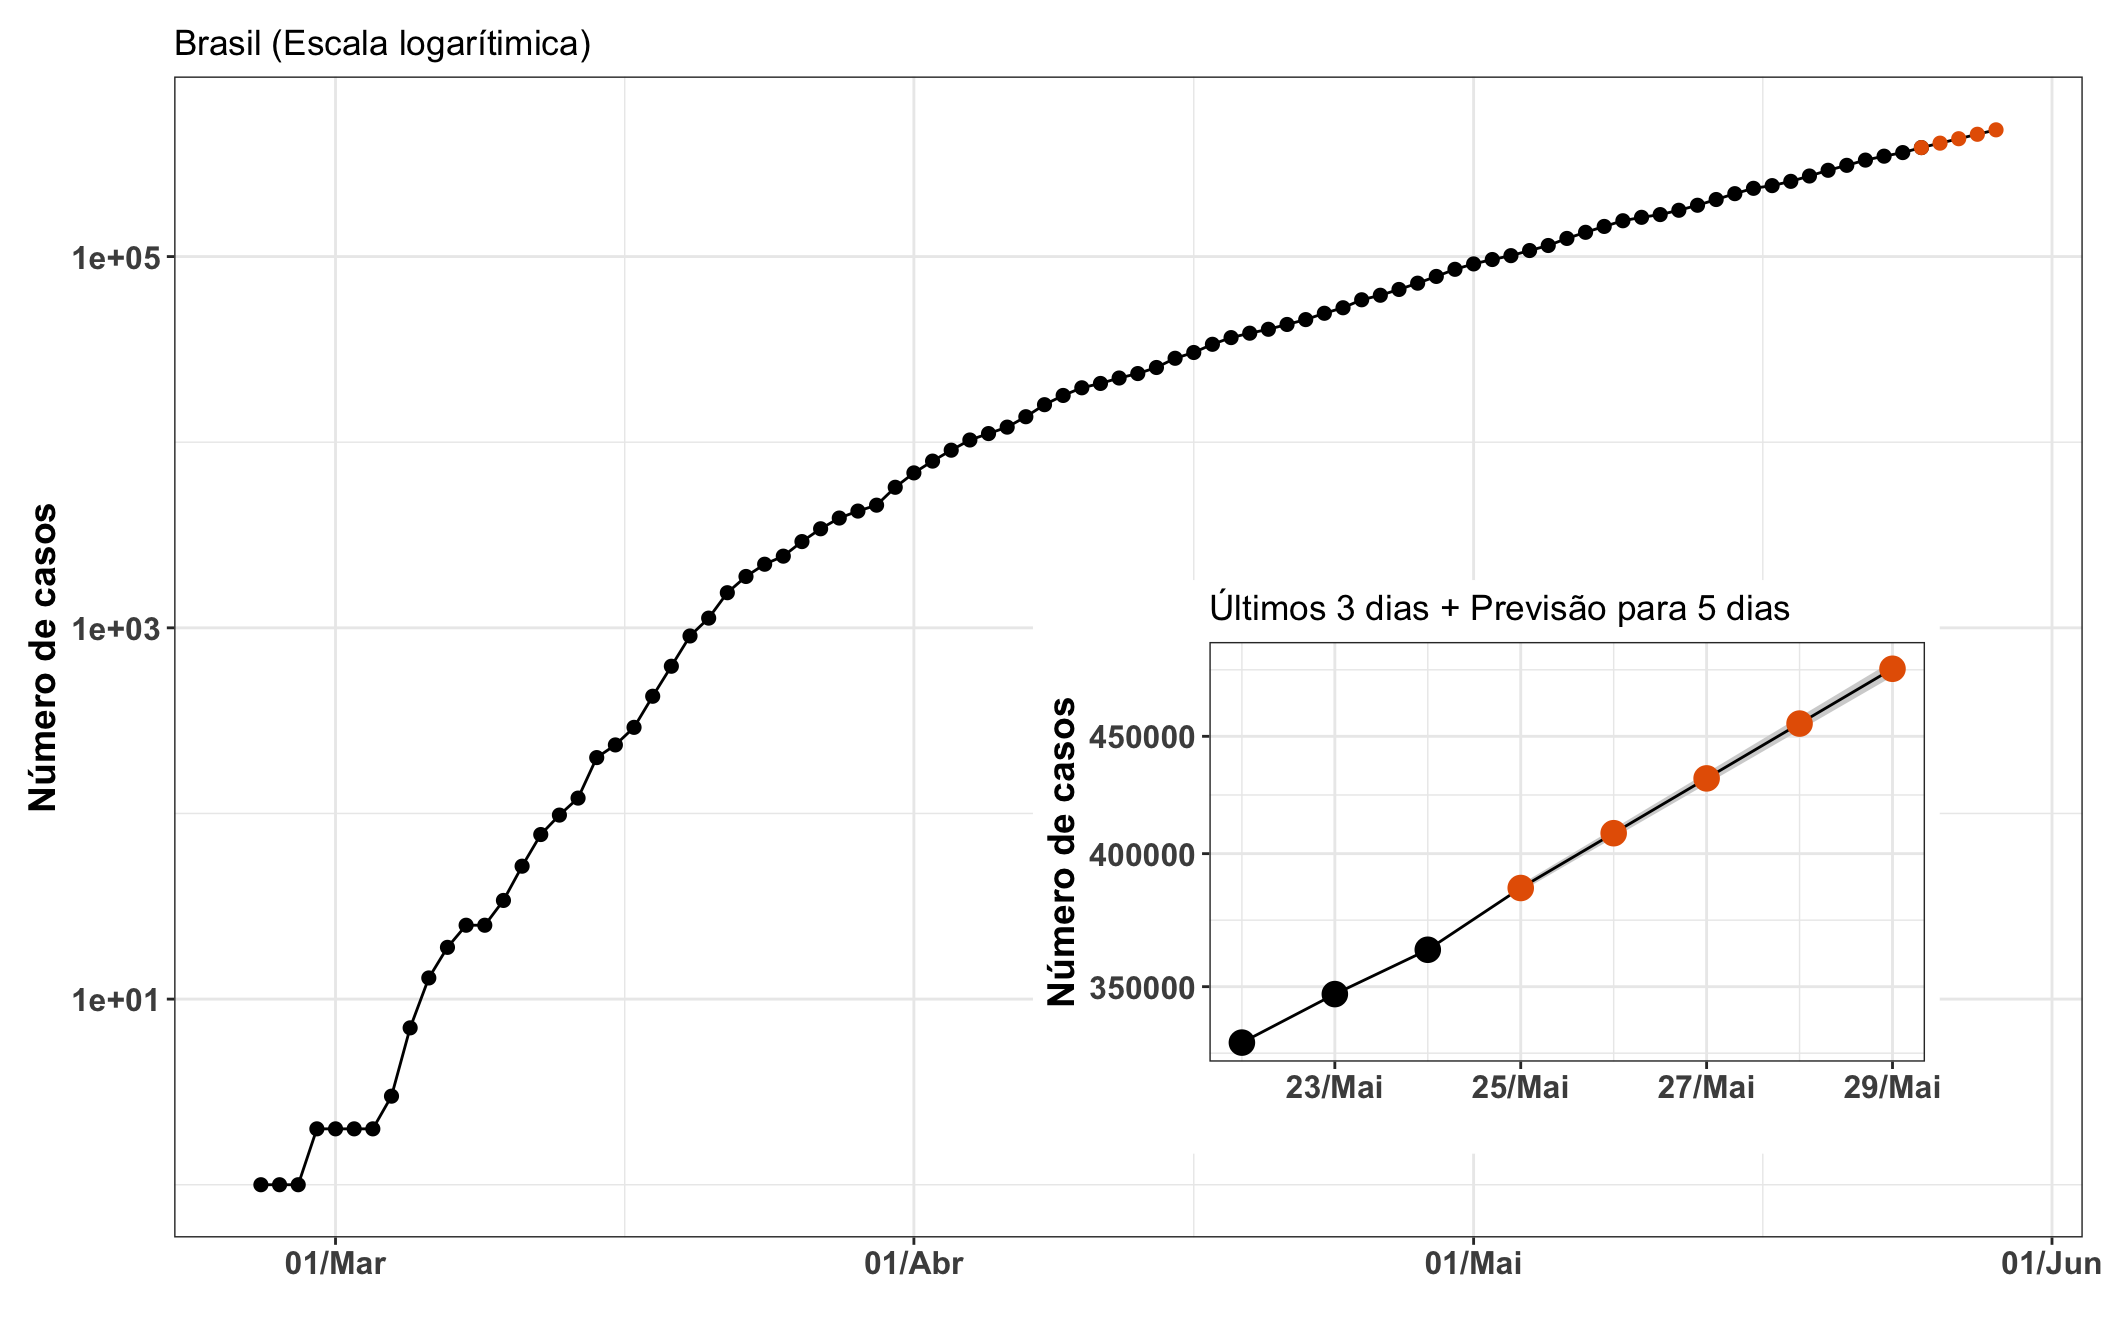
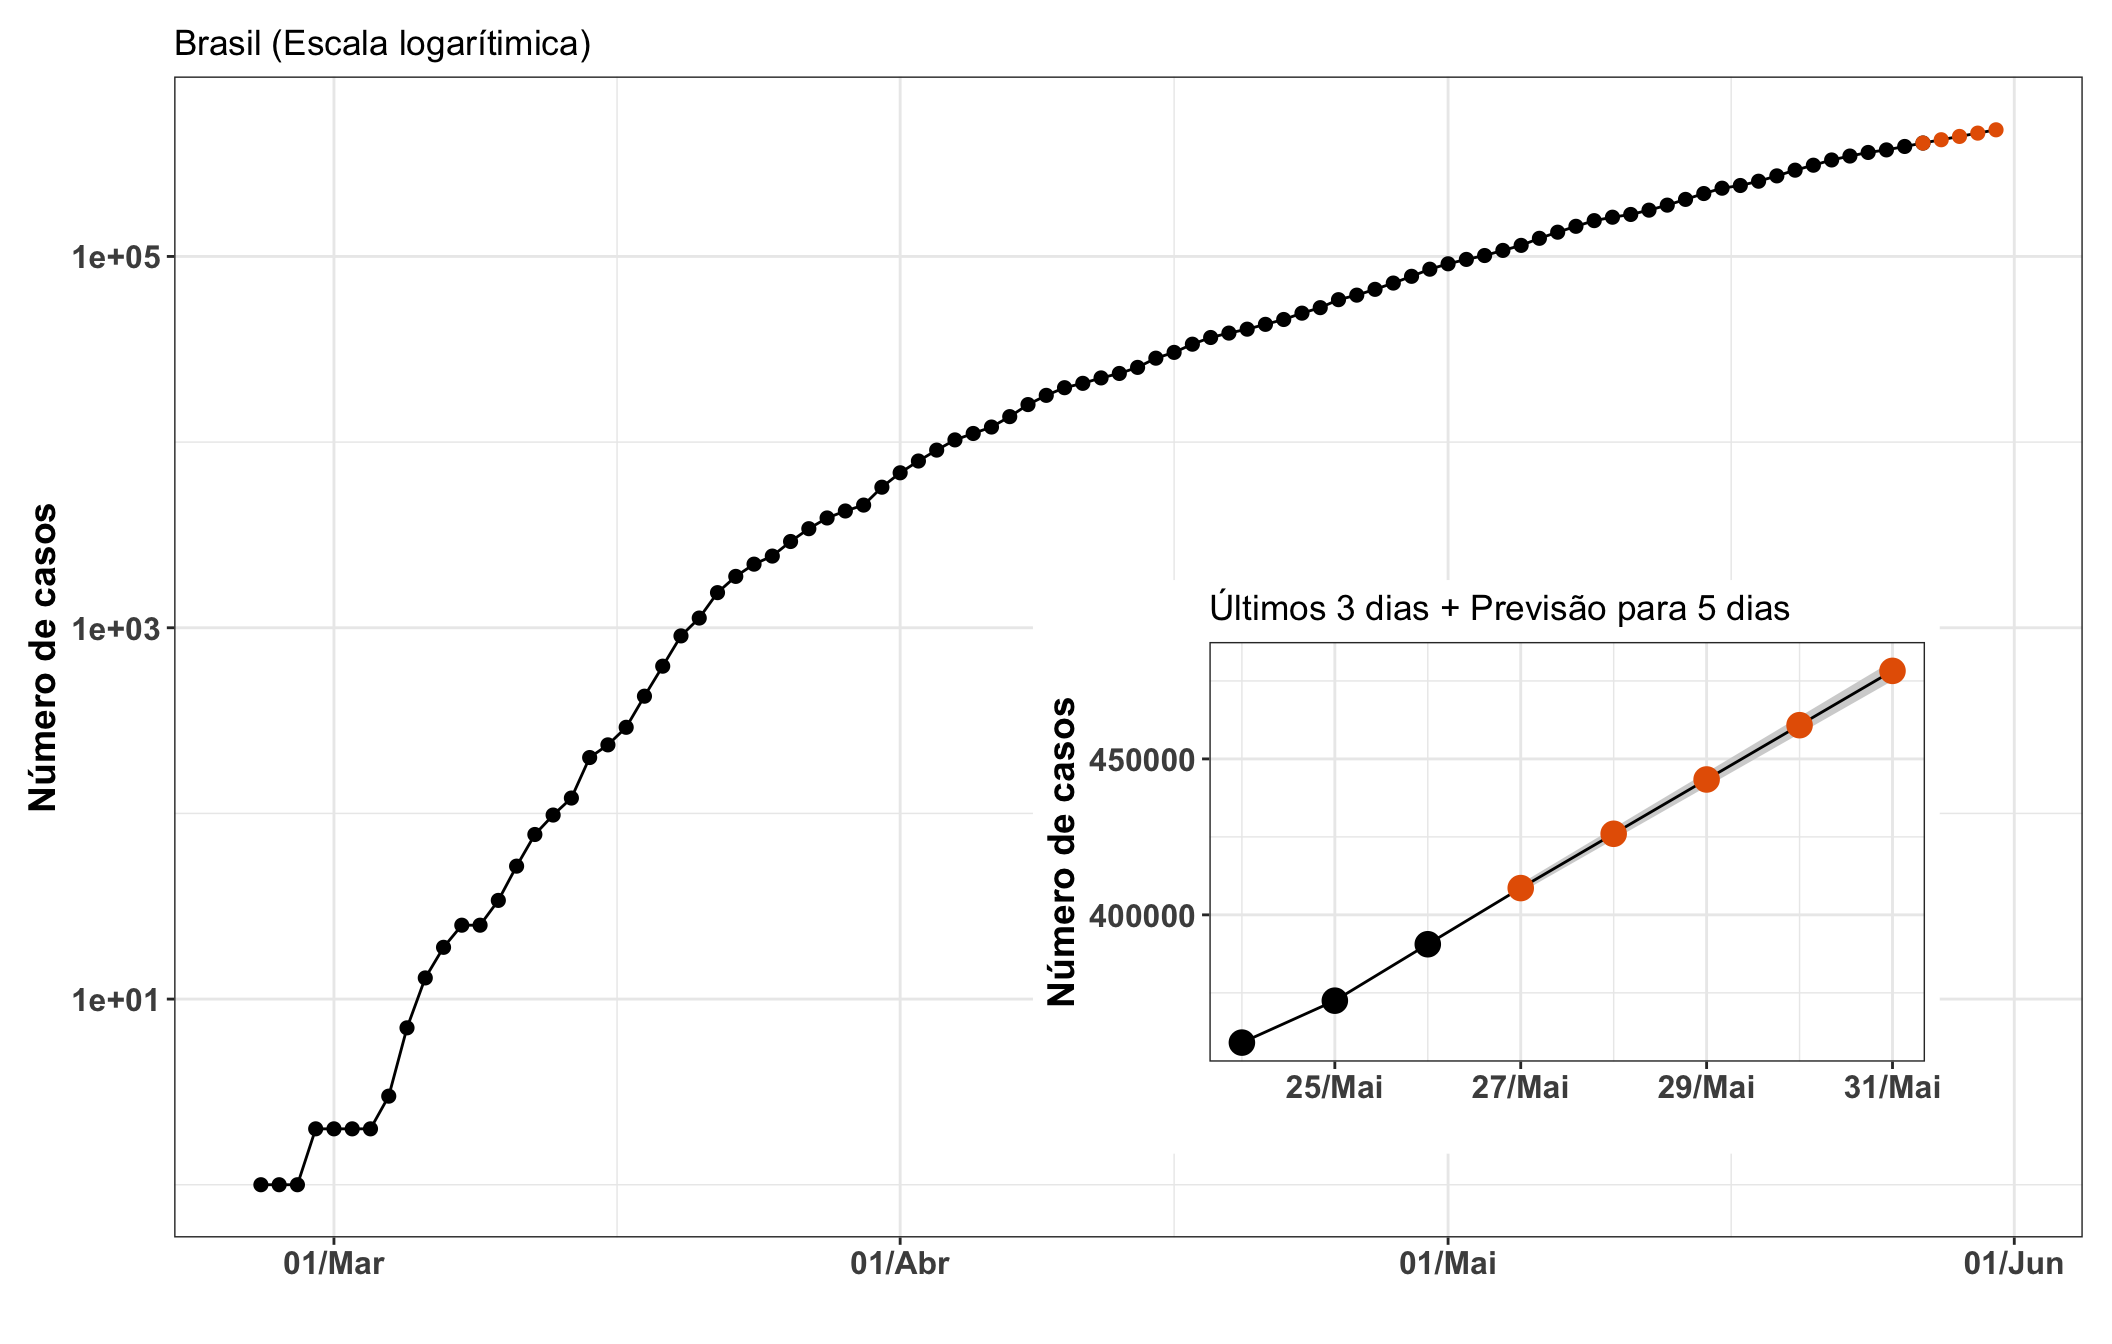
Dados de hoje

diff --git a/index.html b/index.html
@@ -139,8 +139,8 @@
 
         <p class="text-justify mt-3">
             <ul>
-            <li>No dia de hoje, acumulamos 138 casos notificados.</li>
-            <li>Projeção para dia 29 de Maio: entre 120 e 266 casos notificados.</li>
+            <li>No dia de hoje, acumulamos 160 casos notificados.</li>
+            <li>Projeção para dia 31 de Maio: entre 132 e 282 casos notificados.</li>
             </ul>
         </p>
 
@@ -228,8 +228,8 @@
 
         <p class="text-justify mt-3">
             <ul>
-            <li>No dia de hoje, acumulamos 6668 casos notificados.</li>
-            <li>Projeção para dia 29 de Maio: entre 8483 e 9519 casos notificados.</li>
+            <li>No dia de hoje, acumulamos 7.516 casos notificados.</li>
+            <li>Projeção para dia 31 de Maio: entre 9.279 e 10.347 casos notificados.</li>
             </ul>
         </p>
 
@@ -282,8 +282,8 @@
 
         <p class="text-justify mt-3">
             <ul>
-            <li>No dia de hoje, acumulamos 363211 casos notificados.</li>
-            <li>Projeção para dia 29 de Maio: entre 477841 e 485329 casos notificados.</li>
+            <li>No dia de hoje, acumulamos 391.222 casos notificados.</li>
+            <li>Projeção para dia 31 de Maio: entre 477.375 e 484.527 casos notificados.</li>
             </ul>
         </p>
 
